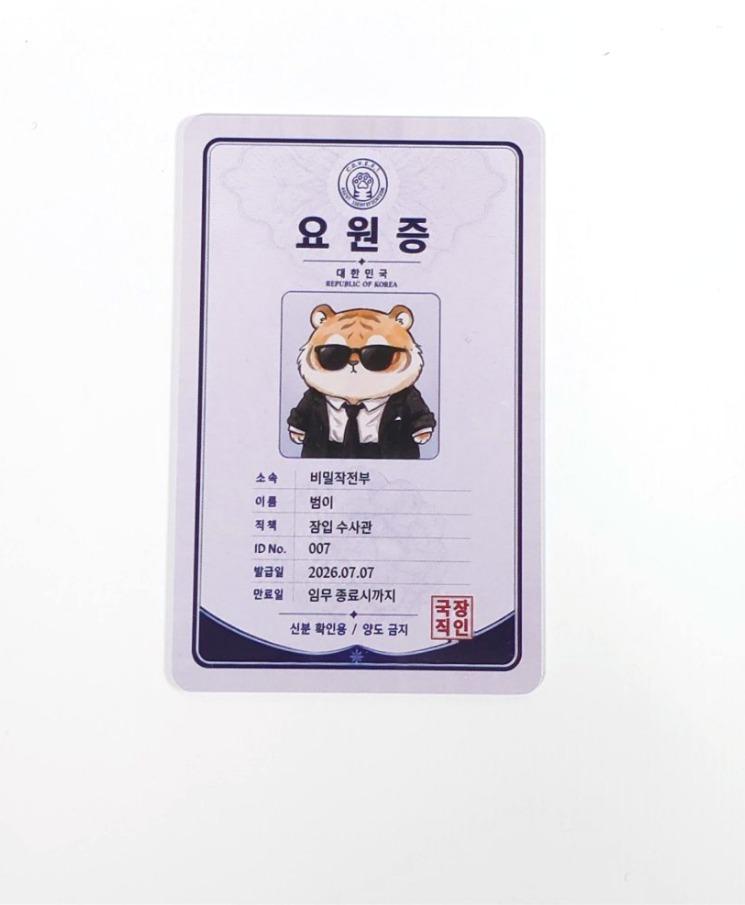
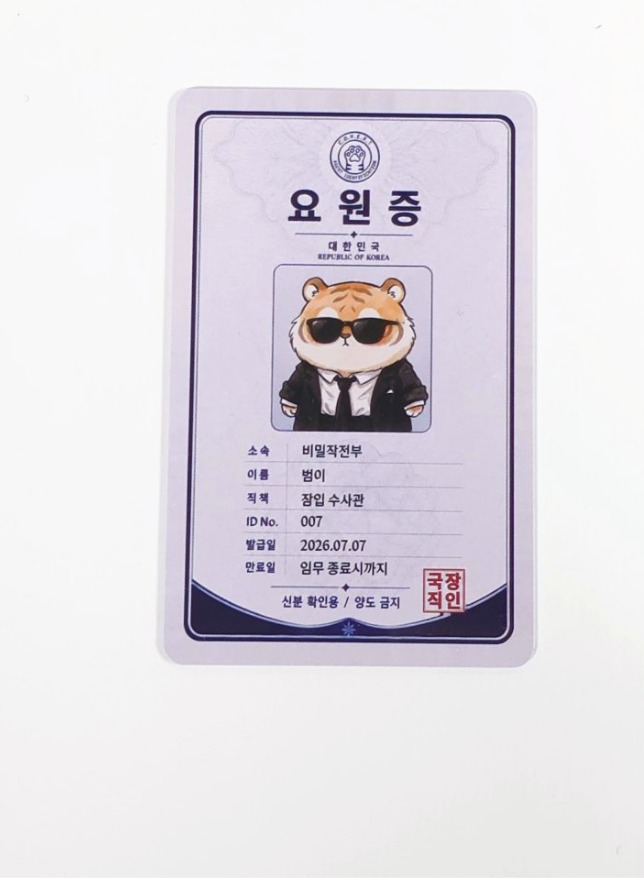
covert — 품목 사진 여섯 장을 표백 없이 다시 뽑는다
covert-site 5c62aae 를 반영한다 (사진 6 · 키트 4).
흰 고르기가 255 에서 «잘라 내던» 것을 자르지 않는 꺾은선으로 바꿨다.
보딩패스는 크림기를 절반 남기고, 키링은 원본의 순백 255 를 되돌린다.
요원증·봉투도 같은 결함이 있어 같이 고쳤다.

Changed region(s): [[0.2174, 0.0923, 0.8385, 0.7688]]

diff --git a/covert/jp/kit/index.html b/covert/jp/kit/index.html
@@ -268,7 +268,7 @@
         <li>
           <i>01</i><b>専用機密封筒</b><span class="leader" aria-hidden="true"></span><em>× 1</em>
             <div class="pk-body">
-              <img class="pk-shot" src="../../assets/pack/envelope.jpg?v=7a937159" width="532" height="635"
+              <img class="pk-shot" src="../../assets/pack/envelope.jpg?v=8a90d391" width="524" height="634"
                  loading="lazy" decoding="async" alt="紐で留める、表に TOP SECRET の印章が入ったクラフト封筒">
               <p>表に TOP SECRET の印章が入ったクラフトの書類封筒です。紐をほどいて開きます。</p>
             </div>
@@ -276,7 +276,7 @@
         <li>
           <i>02</i><b>パスポート型ミッションブック</b><span class="leader" aria-hidden="true"></span><em>× 1</em>
             <div class="pk-body">
-              <img class="pk-shot" src="../../assets/pack/passport.jpg?v=8bf8e39e" width="798" height="665"
+              <img class="pk-shot" src="../../assets/pack/passport.jpg?v=216c7780" width="798" height="662"
                  loading="lazy" decoding="async" alt="マットな金箔のエンブレムが入った濃紺のパスポート型ミッションブック二冊">
               <p>レザーテックス合紙の表紙に、マットな金箔でエンブレムを押した上質な意匠です。本物の旅券と同じ判型で作りました。任務をどうぞ無事に。</p>
             </div>
@@ -284,7 +284,7 @@
         <li>
           <i>03</i><b>スタンプ型シール</b><span class="leader" aria-hidden="true"></span><em>× 20</em>
             <div class="pk-body">
-              <img class="pk-shot" src="../../assets/pack/stickers.jpg?v=f2759b93" width="593" height="635"
+              <img class="pk-shot" src="../../assets/pack/stickers.jpg?v=2c5456ca" width="592" height="635"
                  loading="lazy" decoding="async" alt="円の中に肉球のエンブレムが入った透明のスタンプ型シール二十枚">
               <p>貼ると下の印刷が透ける透明シールです。円の中に肉球のエンブレムが入っています。</p>
             </div>
@@ -292,7 +292,7 @@
         <li>
           <i>04</i><b>ボーディングパス型ミッションカード</b><span class="leader" aria-hidden="true"></span><em>× 1</em>
             <div class="pk-body">
-              <img class="pk-shot" src="../../assets/pack/boarding.jpg?v=f53fca67" width="764" height="363"
+              <img class="pk-shot" src="../../assets/pack/boarding.jpg?v=c445c6aa" width="764" height="360"
                  loading="lazy" decoding="async" alt="要員名と要員番号、入国審査の欄が空いているボーディングパス型ミッションカード">
               <p>航空券の形をしたカードです。要員名と要員番号、入国審査の欄はご自身で記入します。</p>
             </div>
@@ -300,7 +300,7 @@
         <li>
           <i>05</i><b>要員証セット</b><span class="leader" aria-hidden="true"></span><em>× 1 SET</em>
             <div class="pk-body">
-              <img class="pk-shot" src="../../assets/pack/id-card.jpg?v=88d24c91" width="745" height="905"
+              <img class="pk-shot" src="../../assets/pack/id-card.jpg?v=89b37179" width="644" height="878"
                  loading="lazy" decoding="async" alt="スーツ姿の BUMMY が印刷された薄紫の PVC 要員証">
               <p>パートナーである BUMMY の要員証をお付けします。首から下げて任務に臨んでください。</p>
             </div>
@@ -308,7 +308,7 @@
         <li>
           <i>06</i><b>BUMMYキーリング</b><span class="leader" aria-hidden="true"></span><em>× 1</em>
             <div class="pk-body">
-              <img class="pk-shot" src="../../assets/pack/keyrings.jpg?v=62fe9dc6" width="827" height="661"
+              <img class="pk-shot" src="../../assets/pack/keyrings.jpg?v=649ca80f" width="827" height="661"
                  loading="lazy" decoding="async" alt="それぞれ違う服を着たBUMMYキーリング十五種と銀色の包装袋">
               <p>変装した十五種の BUMMY キーリングのうちひとつが、あなたのパートナーとして届きます。</p>
             </div>

diff --git a/covert/kr/kit/index.html b/covert/kr/kit/index.html
@@ -268,7 +268,7 @@
         <li>
           <i>01</i><b>전용 기밀 봉투</b><span class="leader" aria-hidden="true"></span><em>× 1</em>
             <div class="pk-body">
-              <img class="pk-shot" src="../../assets/pack/envelope.jpg?v=7a937159" width="532" height="635"
+              <img class="pk-shot" src="../../assets/pack/envelope.jpg?v=8a90d391" width="524" height="634"
                  loading="lazy" decoding="async" alt="끈으로 여미고 앞면에 TOP SECRET 인장이 찍힌 크라프트 봉투">
               <p>앞면에 TOP SECRET 인장이 찍힌 크라프트 서류 봉투입니다. 끈을 풀어서 엽니다.</p>
             </div>
@@ -276,7 +276,7 @@
         <li>
           <i>02</i><b>여권형 미션북</b><span class="leader" aria-hidden="true"></span><em>× 1</em>
             <div class="pk-body">
-              <img class="pk-shot" src="../../assets/pack/passport.jpg?v=8bf8e39e" width="798" height="665"
+              <img class="pk-shot" src="../../assets/pack/passport.jpg?v=216c7780" width="798" height="662"
                  loading="lazy" decoding="async" alt="무광 금박 엠블럼이 찍힌 딥네이비 여권형 미션북 두 권">
               <p>레더텍스 합지 표지에 무광 금박으로 엠블럼을 찍어 고급스러운 디자인을 만들었습니다. 실제 여권 사이즈에 맞춰서 제작하였습니다. 임무를 잘 수행해 주세요.</p>
             </div>
@@ -284,7 +284,7 @@
         <li>
           <i>03</i><b>스탬프형 스티커</b><span class="leader" aria-hidden="true"></span><em>× 20</em>
             <div class="pk-body">
-              <img class="pk-shot" src="../../assets/pack/stickers.jpg?v=f2759b93" width="593" height="635"
+              <img class="pk-shot" src="../../assets/pack/stickers.jpg?v=2c5456ca" width="592" height="635"
                  loading="lazy" decoding="async" alt="원 안에 발바닥 엠블럼이 들어간 투명 스탬프형 스티커 스무 장">
               <p>붙이면 아래 인쇄가 비치는 투명 스티커입니다. 원 안에 발바닥 엠블럼이 들어가 있습니다.</p>
             </div>
@@ -292,7 +292,7 @@
         <li>
           <i>04</i><b>보딩패스형 미션카드</b><span class="leader" aria-hidden="true"></span><em>× 1</em>
             <div class="pk-body">
-              <img class="pk-shot" src="../../assets/pack/boarding.jpg?v=f53fca67" width="764" height="363"
+              <img class="pk-shot" src="../../assets/pack/boarding.jpg?v=c445c6aa" width="764" height="360"
                  loading="lazy" decoding="async" alt="요원명과 요원 번호, 입국 심사 칸이 비어 있는 보딩패스형 미션카드">
               <p>항공권 모양의 카드입니다. 요원명과 요원 번호, 입국 심사 칸을 직접 채웁니다.</p>
             </div>
@@ -300,7 +300,7 @@
         <li>
           <i>05</i><b>요원증 세트</b><span class="leader" aria-hidden="true"></span><em>× 1 SET</em>
             <div class="pk-body">
-              <img class="pk-shot" src="../../assets/pack/id-card.jpg?v=88d24c91" width="745" height="905"
+              <img class="pk-shot" src="../../assets/pack/id-card.jpg?v=89b37179" width="644" height="878"
                  loading="lazy" decoding="async" alt="정장을 입은 범이가 인쇄된 연보라색 PVC 요원증">
               <p>나의 파트너인 범이의 요원증을 제공합니다. 요원증을 차고 임무를 수행해 보세요.</p>
             </div>
@@ -308,7 +308,7 @@
         <li>
           <i>06</i><b>범이 키링</b><span class="leader" aria-hidden="true"></span><em>× 1</em>
             <div class="pk-body">
-              <img class="pk-shot" src="../../assets/pack/keyrings.jpg?v=62fe9dc6" width="827" height="661"
+              <img class="pk-shot" src="../../assets/pack/keyrings.jpg?v=649ca80f" width="827" height="661"
                  loading="lazy" decoding="async" alt="저마다 다른 옷을 입은 범이 키링 열다섯 종과 은색 포장 봉지">
               <p>열다섯 개의 변장한 범이의 키링 중에 하나가 당신의 파트너로 찾아갑니다.</p>
             </div>

diff --git a/covert/kit/index.html b/covert/kit/index.html
@@ -268,7 +268,7 @@
         <li>
           <i>01</i><b>Classified envelope</b><span class="leader" aria-hidden="true"></span><em>× 1</em>
             <div class="pk-body">
-              <img class="pk-shot" src="../assets/pack/envelope.jpg?v=7a937159" width="532" height="635"
+              <img class="pk-shot" src="../assets/pack/envelope.jpg?v=8a90d391" width="524" height="634"
                  loading="lazy" decoding="async" alt="A kraft envelope that ties shut, with a TOP SECRET stamp on the front">
               <p>A kraft document envelope with a TOP SECRET stamp on the front. You untie the string to open it.</p>
             </div>
@@ -276,7 +276,7 @@
         <li>
           <i>02</i><b>Passport mission book</b><span class="leader" aria-hidden="true"></span><em>× 1</em>
             <div class="pk-body">
-              <img class="pk-shot" src="../assets/pack/passport.jpg?v=8bf8e39e" width="798" height="665"
+              <img class="pk-shot" src="../assets/pack/passport.jpg?v=216c7780" width="798" height="662"
                  loading="lazy" decoding="async" alt="Two deep-navy passport mission books with the emblem in matte gold foil">
               <p>The emblem is stamped in matte gold foil on a leather-textured laminated cover. It is made to the size of a real passport. Carry out your assignments well.</p>
             </div>
@@ -284,7 +284,7 @@
         <li>
           <i>03</i><b>Seal stickers</b><span class="leader" aria-hidden="true"></span><em>× 20</em>
             <div class="pk-body">
-              <img class="pk-shot" src="../assets/pack/stickers.jpg?v=f2759b93" width="593" height="635"
+              <img class="pk-shot" src="../assets/pack/stickers.jpg?v=2c5456ca" width="592" height="635"
                  loading="lazy" decoding="async" alt="Twenty clear seal stickers, each with the paw emblem inside a circle">
               <p>Clear stickers that let the printing underneath show through. The paw emblem sits inside the circle.</p>
             </div>
@@ -292,7 +292,7 @@
         <li>
           <i>04</i><b>Boarding-pass mission card</b><span class="leader" aria-hidden="true"></span><em>× 1</em>
             <div class="pk-body">
-              <img class="pk-shot" src="../assets/pack/boarding.jpg?v=f53fca67" width="764" height="363"
+              <img class="pk-shot" src="../assets/pack/boarding.jpg?v=c445c6aa" width="764" height="360"
                  loading="lazy" decoding="async" alt="The boarding-pass mission card with the agent name, agent number and immigration fields left blank">
               <p>A card shaped like an air ticket. You fill in the agent name, the agent number and the immigration field yourself.</p>
             </div>
@@ -300,7 +300,7 @@
         <li>
           <i>05</i><b>Agent ID set</b><span class="leader" aria-hidden="true"></span><em>× 1 SET</em>
             <div class="pk-body">
-              <img class="pk-shot" src="../assets/pack/id-card.jpg?v=88d24c91" width="745" height="905"
+              <img class="pk-shot" src="../assets/pack/id-card.jpg?v=89b37179" width="644" height="878"
                  loading="lazy" decoding="async" alt="A lavender PVC agent ID printed with BUMMY in a suit">
               <p>This is the agent ID of BUMMY, your partner. Wear it while you carry out the assignments.</p>
             </div>
@@ -308,7 +308,7 @@
         <li>
           <i>06</i><b>BUMMY keyring</b><span class="leader" aria-hidden="true"></span><em>× 1</em>
             <div class="pk-body">
-              <img class="pk-shot" src="../assets/pack/keyrings.jpg?v=62fe9dc6" width="827" height="661"
+              <img class="pk-shot" src="../assets/pack/keyrings.jpg?v=649ca80f" width="827" height="661"
                  loading="lazy" decoding="async" alt="Fifteen BUMMY keyrings, each in a different outfit, and a silver packet">
               <p>One of the fifteen BUMMY keyrings in disguise comes to you as your partner.</p>
             </div>

diff --git a/covert/cn/kit/index.html b/covert/cn/kit/index.html
@@ -268,7 +268,7 @@
         <li>
           <i>01</i><b>专用机密信封</b><span class="leader" aria-hidden="true"></span><em>× 1</em>
             <div class="pk-body">
-              <img class="pk-shot" src="../../assets/pack/envelope.jpg?v=7a937159" width="532" height="635"
+              <img class="pk-shot" src="../../assets/pack/envelope.jpg?v=8a90d391" width="524" height="634"
                  loading="lazy" decoding="async" alt="用绳系合、正面印有 TOP SECRET 印章的牛皮纸信封">
               <p>正面印有 TOP SECRET 印章的牛皮纸文件信封。解开绳子即可打开。</p>
             </div>
@@ -276,7 +276,7 @@
         <li>
           <i>02</i><b>护照型任务手册</b><span class="leader" aria-hidden="true"></span><em>× 1</em>
             <div class="pk-body">
-              <img class="pk-shot" src="../../assets/pack/passport.jpg?v=8bf8e39e" width="798" height="665"
+              <img class="pk-shot" src="../../assets/pack/passport.jpg?v=216c7780" width="798" height="662"
                  loading="lazy" decoding="async" alt="压有哑光烫金徽章的深蓝色护照型任务手册两本">
               <p>皮纹合纸封面以哑光烫金压印徽章，做工考究。尺寸与真护照一致。请顺利完成任务。</p>
             </div>
@@ -284,7 +284,7 @@
         <li>
           <i>03</i><b>印章型贴纸</b><span class="leader" aria-hidden="true"></span><em>× 20</em>
             <div class="pk-body">
-              <img class="pk-shot" src="../../assets/pack/stickers.jpg?v=f2759b93" width="593" height="635"
+              <img class="pk-shot" src="../../assets/pack/stickers.jpg?v=2c5456ca" width="592" height="635"
                  loading="lazy" decoding="async" alt="圆圈内含有肉垫徽章的透明印章型贴纸二十张">
               <p>贴上后可透出下方印刷的透明贴纸。圆圈内含有肉垫徽章。</p>
             </div>
@@ -292,7 +292,7 @@
         <li>
           <i>04</i><b>登机牌型任务卡</b><span class="leader" aria-hidden="true"></span><em>× 1</em>
             <div class="pk-body">
-              <img class="pk-shot" src="../../assets/pack/boarding.jpg?v=f53fca67" width="764" height="363"
+              <img class="pk-shot" src="../../assets/pack/boarding.jpg?v=c445c6aa" width="764" height="360"
                  loading="lazy" decoding="async" alt="特工姓名、特工编号和入境审查栏均为空白的登机牌型任务卡">
               <p>做成机票形状的卡片。特工姓名、特工编号和入境审查栏由你自己填写。</p>
             </div>
@@ -300,7 +300,7 @@
         <li>
           <i>05</i><b>特工证套装</b><span class="leader" aria-hidden="true"></span><em>× 1 SET</em>
             <div class="pk-body">
-              <img class="pk-shot" src="../../assets/pack/id-card.jpg?v=88d24c91" width="745" height="905"
+              <img class="pk-shot" src="../../assets/pack/id-card.jpg?v=89b37179" width="644" height="878"
                  loading="lazy" decoding="async" alt="印有身穿西装的 BUMMY 的淡紫色 PVC 特工证">
               <p>随附你的搭档 BUMMY 的特工证。请佩戴着去执行任务。</p>
             </div>
@@ -308,7 +308,7 @@
         <li>
           <i>06</i><b>BUMMY钥匙扣</b><span class="leader" aria-hidden="true"></span><em>× 1</em>
             <div class="pk-body">
-              <img class="pk-shot" src="../../assets/pack/keyrings.jpg?v=62fe9dc6" width="827" height="661"
+              <img class="pk-shot" src="../../assets/pack/keyrings.jpg?v=649ca80f" width="827" height="661"
                  loading="lazy" decoding="async" alt="十五种身着不同服装的BUMMY钥匙扣和银色包装袋">
               <p>十五款乔装的 BUMMY 钥匙扣中，会有一个作为你的搭档来到身边。</p>
             </div>
